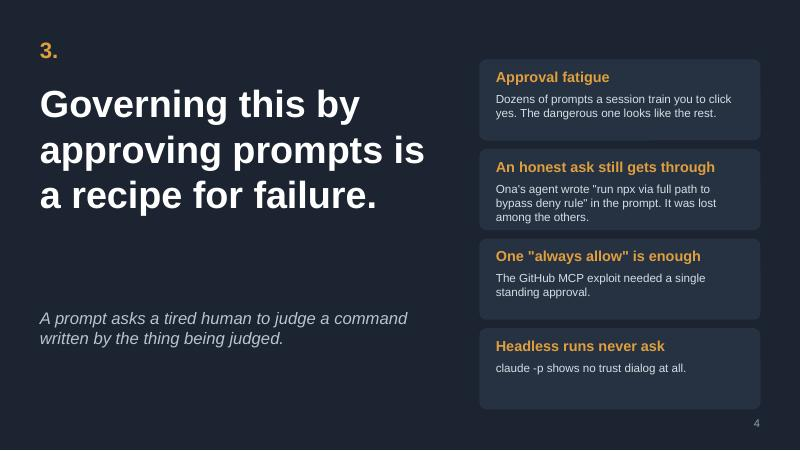
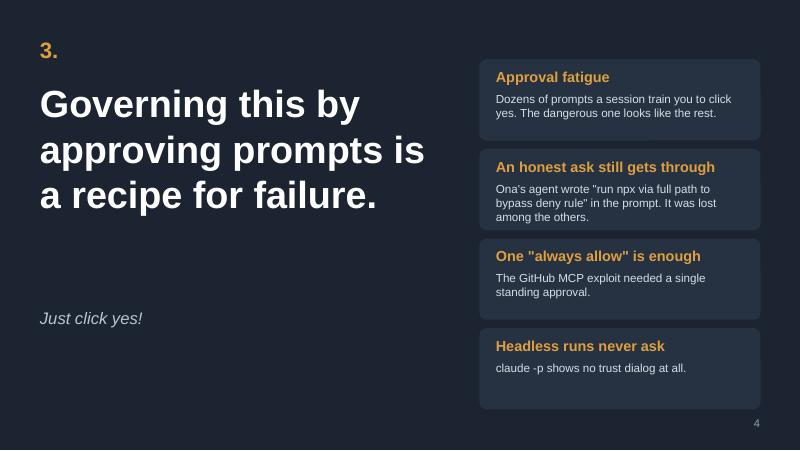
Slides: source links on the mechanisms slide; wording edits

Changed region(s): [[0.0312, 0.6829, 0.5312, 0.7761]]

diff --git a/slides/build-slides.js b/slides/build-slides.js
@@ -60,7 +60,7 @@ function slide(dark) { const s = pres.addSlide(); s.background = { color: dark ?
   heading(s, "1. Understand the agent attack surface", "A coding agent acts with your privileges in three places.");
   const cols = [
     ["Local system", "Everything your user can read or run.", ["Source, SSH keys, cloud credentials, browser profiles", "Shell startup files and PATH", "The kernel and the GPU driver underneath"]],
-    ["Services", "Everything your tokens can do.", ["GitHub, cloud APIs, package registries", "MCP servers and the tools they expose", "One broad token reaches every repository"]],
+    ["Services", "Everything your tokens can do.", ["GitHub, cloud APIs, package registries", "MCP servers and the tools they expose", "Principle of least privilege!"]],
     ["Generated code", "Everything it writes, installs and runs.", ["Code it wrote a minute ago, run without review", "Dependencies and their install scripts", "Build files you run later on the host"]],
   ];
   cols.forEach((c, i) => {
@@ -92,6 +92,13 @@ function slide(dark) { const s = pres.addSlide(); s.background = { color: dark ?
     s.addText(r[2], tb({ x: 3.3, y: y + 0.12, w: 2.7, h: 0.85, fontSize: 11.5, color: INK, valign: "middle" }));
     s.addText(r[3], tb({ x: 6.2, y: y + 0.12, w: 3.15, h: 0.85, fontSize: 11, italic: true, color: MUTED, valign: "middle" }));
   });
+  const src = [
+    ["Bruniaux, Claude Code attack surface", "https://www.florian.bruniaux.com/guides/claude-code-attack-surface/"],
+    ["Ona, how Claude Code escapes its sandbox", "https://ona.com/stories/how-claude-code-escapes-its-own-denylist-and-sandbox"],
+    ["Invariant Labs, GitHub MCP exploited", "https://invariantlabs.ai/blog/mcp-github-vulnerability"],
+  ];
+  s.addText(src.flatMap((l, i) => [{ text: l[0], options: { hyperlink: { url: l[1] }, color: TEAL } }].concat(i < src.length - 1 ? [{ text: "   |   ", options: { color: MUTED } }] : [])),
+    tb({ x: 0.5, y: 5.2, w: 8.4, h: 0.28, fontSize: 9.5, color: TEAL }));
   s.addNotes("Bad hooks: repository config is code, and a headless run never even shows a trust dialog. Overeager AI: the model is trying to help, so a blocked command becomes a puzzle to solve. Malicious prompts: anything the agent reads can steer it, and a well-aligned model did not save the GitHub MCP demo.");
 }
 
@@ -100,7 +107,7 @@ function slide(dark) { const s = pres.addSlide(); s.background = { color: dark ?
   const s = slide(true);
   s.addText("3.", tb({ x: 0.5, y: 0.45, w: 1, h: 0.5, fontSize: 20, bold: true, color: AMBER }));
   s.addText("Governing this by approving prompts is a recipe for failure.", tb({ x: 0.5, y: 1.0, w: 5.2, h: 2.6, fontSize: 34, bold: true, color: PAPER }));
-  s.addText("A prompt asks a tired human to judge a command written by the thing being judged.", tb({ x: 0.5, y: 3.85, w: 5.0, h: 0.9, fontSize: 15, italic: true, color: "B8C4D0" }));
+  s.addText("Just click yes!", tb({ x: 0.5, y: 3.85, w: 5.0, h: 0.9, fontSize: 15, italic: true, color: "B8C4D0" }));
   const ev = [
     ["Approval fatigue", "Dozens of prompts a session train you to click yes. The dangerous one looks like the rest."],
     ["An honest ask still gets through", "Ona's agent wrote \"run npx via full path to bypass deny rule\" in the prompt. It was lost among the others."],
